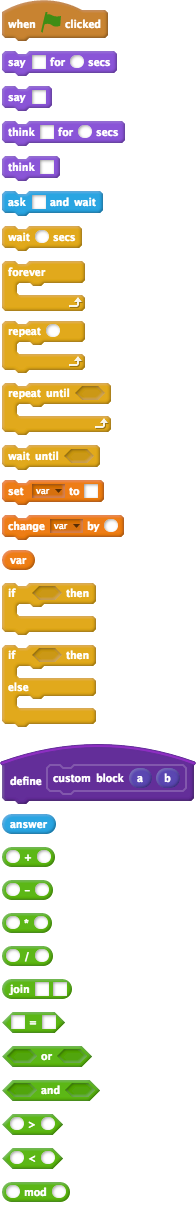
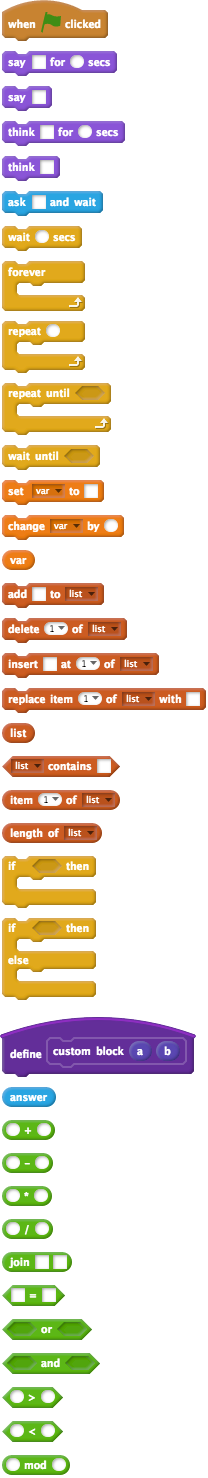
Add support for lists

diff --git a/convert.py b/convert.py
@@ -23,9 +23,10 @@ class JSON_Wrap:
         except KeyError:
             raise AttributeError
 
-Sprite = collections.namedtuple("Sprite", "name scripts vars")
+Sprite = collections.namedtuple("Sprite", "name scripts vars lists")
 Block = collections.namedtuple("Block", "name args")
 Variable = collections.namedtuple("Variable", "name val")
+List = collections.namedtuple("List", "name contents")
 
 def get_json(path):
     "Extracts the json from a .sb2 file"
@@ -62,13 +63,15 @@ def get_stage_and_sprites(json):
                 else:
                     scripts.append([convert(block) for block in script])
             vars = [Variable(var.name, var.value) for var in getattr(child, "variables", [])]
-            sprites.append(Sprite(name, scripts, vars))
+            lists = [List(l.listName, l.contents) for l in getattr(child, "lists", [])]
+            sprites.append(Sprite(name, scripts, vars, lists))
     scripts = []
     for script in getattr(json, "scripts", []):
         script = script[2]
         scripts.append([convert(block) for block in script])
     vars = [Variable(var.name, var.value) for var in getattr(json, "variables", [])]
-    return Sprite("Stage", scripts, vars), sprites
+    lists = [List(l.listName, l.contents) for l in getattr(json, "lists", [])]
+    return Sprite("Stage", scripts, vars, lists), sprites
 
 def indent(amount, code):
     return "\n".join(" "*amount + line for line in code.split("\n"))
@@ -78,7 +81,7 @@ def sprites_to_py(objects, name):
     header = """#! usr/bin/env python3
 # {}
 
-import asyncio
+import asyncio, random
 
 loop = asyncio.get_event_loop()
 """.format(name)
@@ -94,7 +97,9 @@ main()"""
 
     stage, sprites = objects
     global_vars = repr(dict(stage.vars))
+    global_lists = repr(dict(stage.lists))
     header += "\nglobal_vars = {}\n".format(global_vars)
+    header += "global_lists = {}\n".format(global_lists)
     header += "\n{}\n".format(open("runtime.py").read())
     converted_stage = convert_object("Stage", stage)
     converted_sprites = [convert_object("Sprite", sprite) for sprite in sprites]
@@ -105,6 +110,7 @@ def convert_object(type_, sprite):
     class_template = """@create_sprite
 class {}(runtime_{}):
     my_vars = {}
+    my_lists = {}
 {}"""
     gf_template = """@asyncio.coroutine
 def greenflag{}(self):
@@ -128,6 +134,7 @@ def {}(self, {}):
     return class_template.format(sprite.name,
                                  type_,
                                  repr([tuple(v) for v in sprite.vars]),
+                                 repr([tuple(l) for l in sprite.lists]),
                                  indent(4, ("\n\n".join(funcs) if funcs else "pass")))
 
 def convert_blocks(blocks):
@@ -173,6 +180,17 @@ def convert_blocks(blocks):
             pred = convert_reporters(block.args[0])
             if_clause = convert_blocks(block.args[1])
             lines.append("if {}:\n{}".format(pred, indent(4, if_clause)))
+        elif block.name == "append:toList:":
+            lines.append("self.add_to_list({}, {})".format(*map(convert_reporters, block.args)))
+        elif block.name == "deleteLine:ofList:":
+            lines.append("self.delete_stuff_from_list({}, {})".format(
+                                                      *map(convert_reporters, block.args)))
+        elif block.name == "insert:at:ofList:":
+            lines.append("self.insert_thing_in_list({}, {}, {})".format(
+                                                    *map(convert_reporters, block.args)))
+        elif block.name == "setLine:ofList:to:":
+            lines.append("self.replace_thing_in_list({}, {}, {})".format(
+                                                     *map(convert_reporters, block.args)))
     if lines:
         return "\n".join(lines)
     else:
@@ -207,6 +225,14 @@ def convert_reporters(block):
         return "self.get_var({})".format(repr(block.args[0]))
     elif block.name == "getParam":
         return block.args[0]
+    elif block.name == "contentsOfList:":
+        return "self.get_list_as_string({})".format(convert_reporters(block.args[0]))
+    elif block.name == "lineCountOfList:":
+        return "self.length_of_list({})".format(convert_reporters(block.args[0]))
+    elif block.name == "list:contains:":
+        return "self.list_contains_thing({}, {})".format(*map(convert_reporters, block.args))
+    elif block.name == "getLine:ofList:":
+        return "self.item_of_list({}, {})".format(*map(convert_reporters, block.args))
 
 def transpile(in_, out):
     "Transpiles the .sb2 file found at in_ into a .py which is then written to out"

diff --git a/runtime.py b/runtime.py
@@ -12,6 +12,7 @@ class runtime_Stage:
         self._greenflags = [script for name, script in scripts if name.startswith("greenflag")]
         self._answer = ""
         self._vars = dict(self.my_vars)
+        self._lists = dict(self.my_lists)
 
     @asyncio.coroutine
     def wait(self, time):
@@ -46,6 +47,60 @@ class runtime_Stage:
         elif var in self._vars:
             return self._vars[var]
         return 0
+    def _get_list(self, listName):
+        "Returns the list listName"
+        if listName in global_lists:
+            return global_lists[listName]
+        elif listName in self._lists:
+            return self._lists[listName]
+        else:
+            self._lists[listName] = []
+            return self._lists[listName]
+    def get_list_as_string(self, listName):
+        l = self._get_list(listName)
+        if all([len(item) <= 1 for item in l]):
+            return "".join(map(str, l))
+        else:
+            return " ".join(map(str, l))
+    def add_to_list(self, thing, listName):
+        self._get_list(listName).append(str(thing))
+    def insert_thing_in_list(self, thing, place, listName):
+        l = self._get_list(listName)
+        if place == "last":
+            l.append(thing)
+        elif place == "random":
+            l.insert(random.randrange(0, len(l)), thing)
+        else:
+            l.insert(int(convert_to_num(place)[0])-1, thing)
+    def replace_thing_in_list(self, place, listName, thing):
+        l = self._get_list(listName)
+        if place == "last":
+            l[-1] = thing
+        elif place == "random":
+            l[random.randrange(0, len(l))] = thing
+        else:
+            l[int(convert_to_num(place)[0])-1] = thing
+    def delete_stuff_from_list(self, amount, listName):
+        l = self._get_list(listName)
+        if amount == "all":
+            l.clear()
+        elif amount == "last":
+            del l[-1]
+        else:
+            del l[int(convert_to_num(amount)[0])-1]
+    def length_of_list(self, listName):
+        return len(self._get_list(listName))
+    def list_contains_thing(self, listName, thing):
+        return str(thing).lower() in [str(item).lower()
+                                      for item in self._get_list(listName)]
+    def item_of_list(self, place, listName):
+        l = self._get_list(listName)
+        if place == "last":
+            return l[-1]
+        elif place == "random":
+            return random.choice(l)
+        else:
+            return l[int(convert_to_num(place)[0])-1]
 
 def convert_to_num(n):
     "Converts a number string to a Python number"
